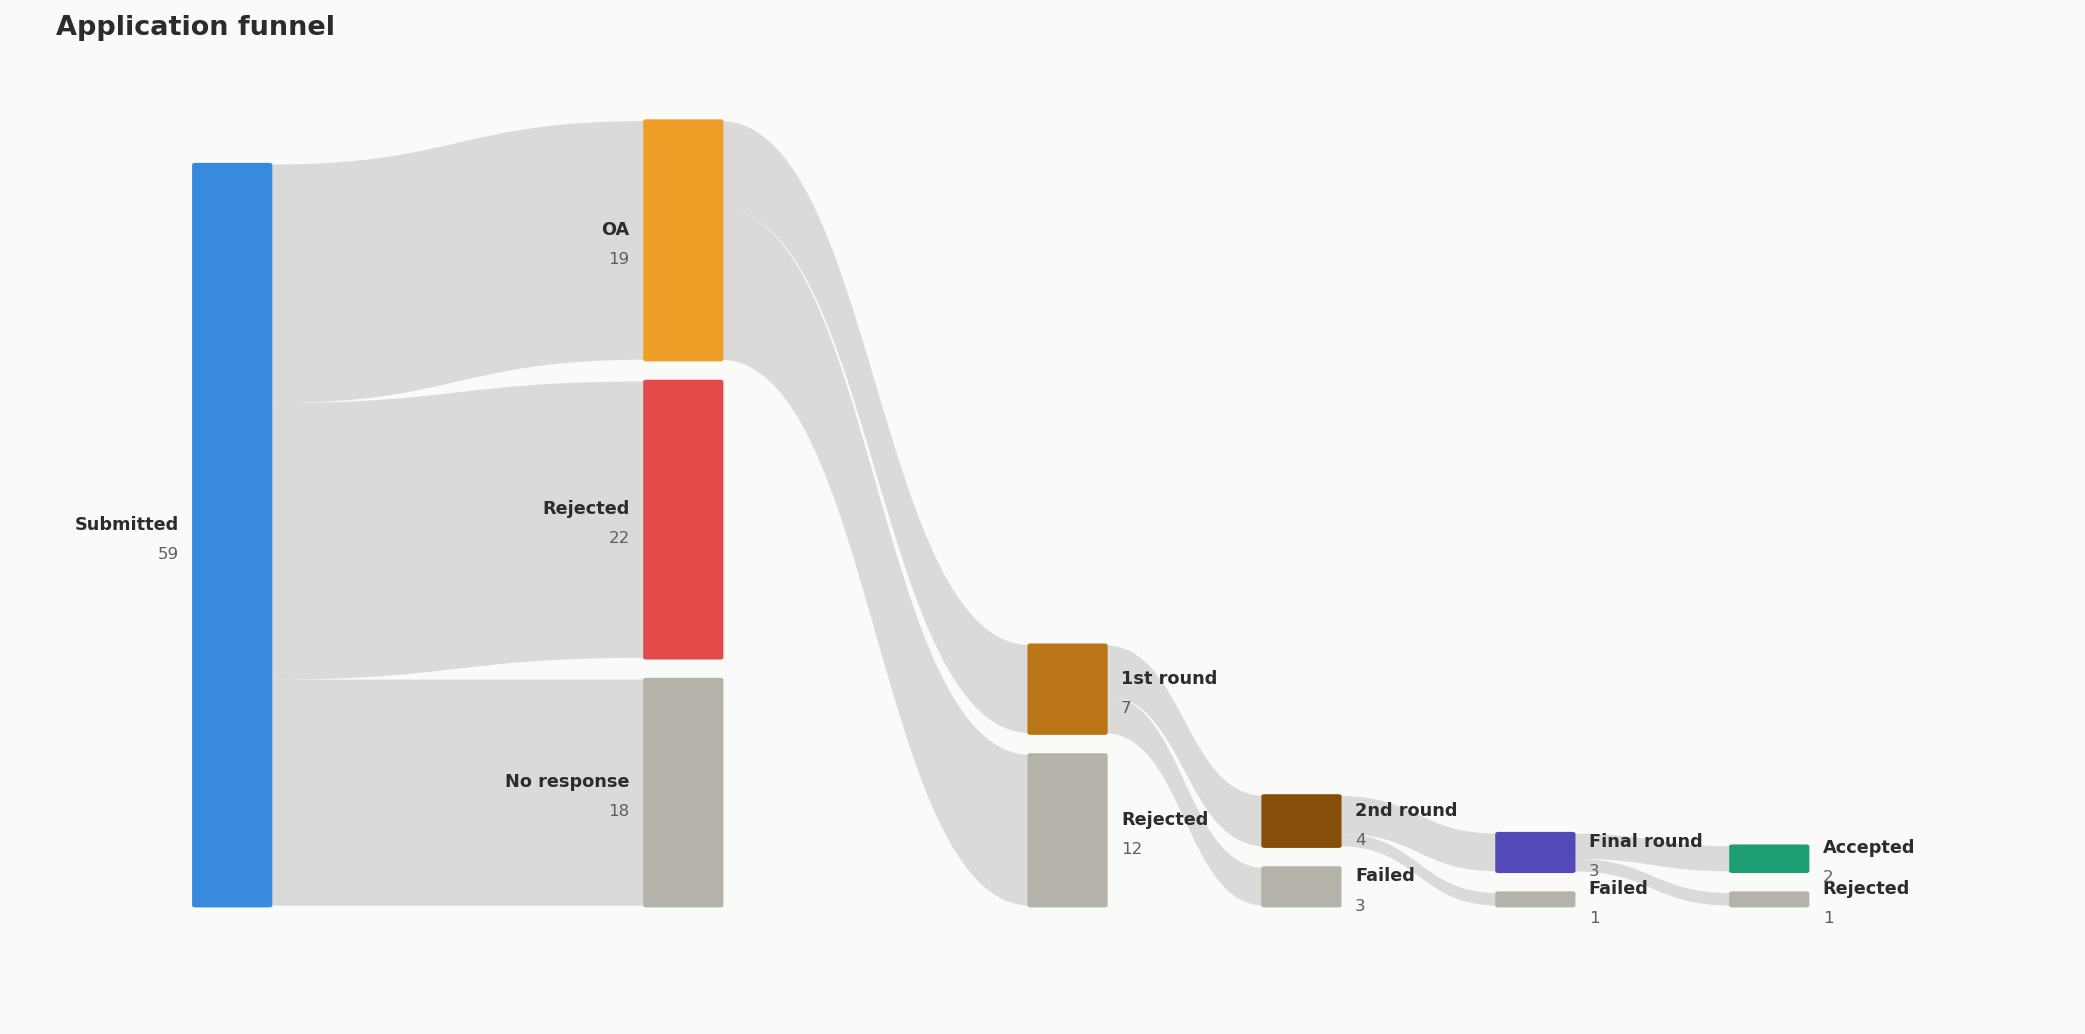
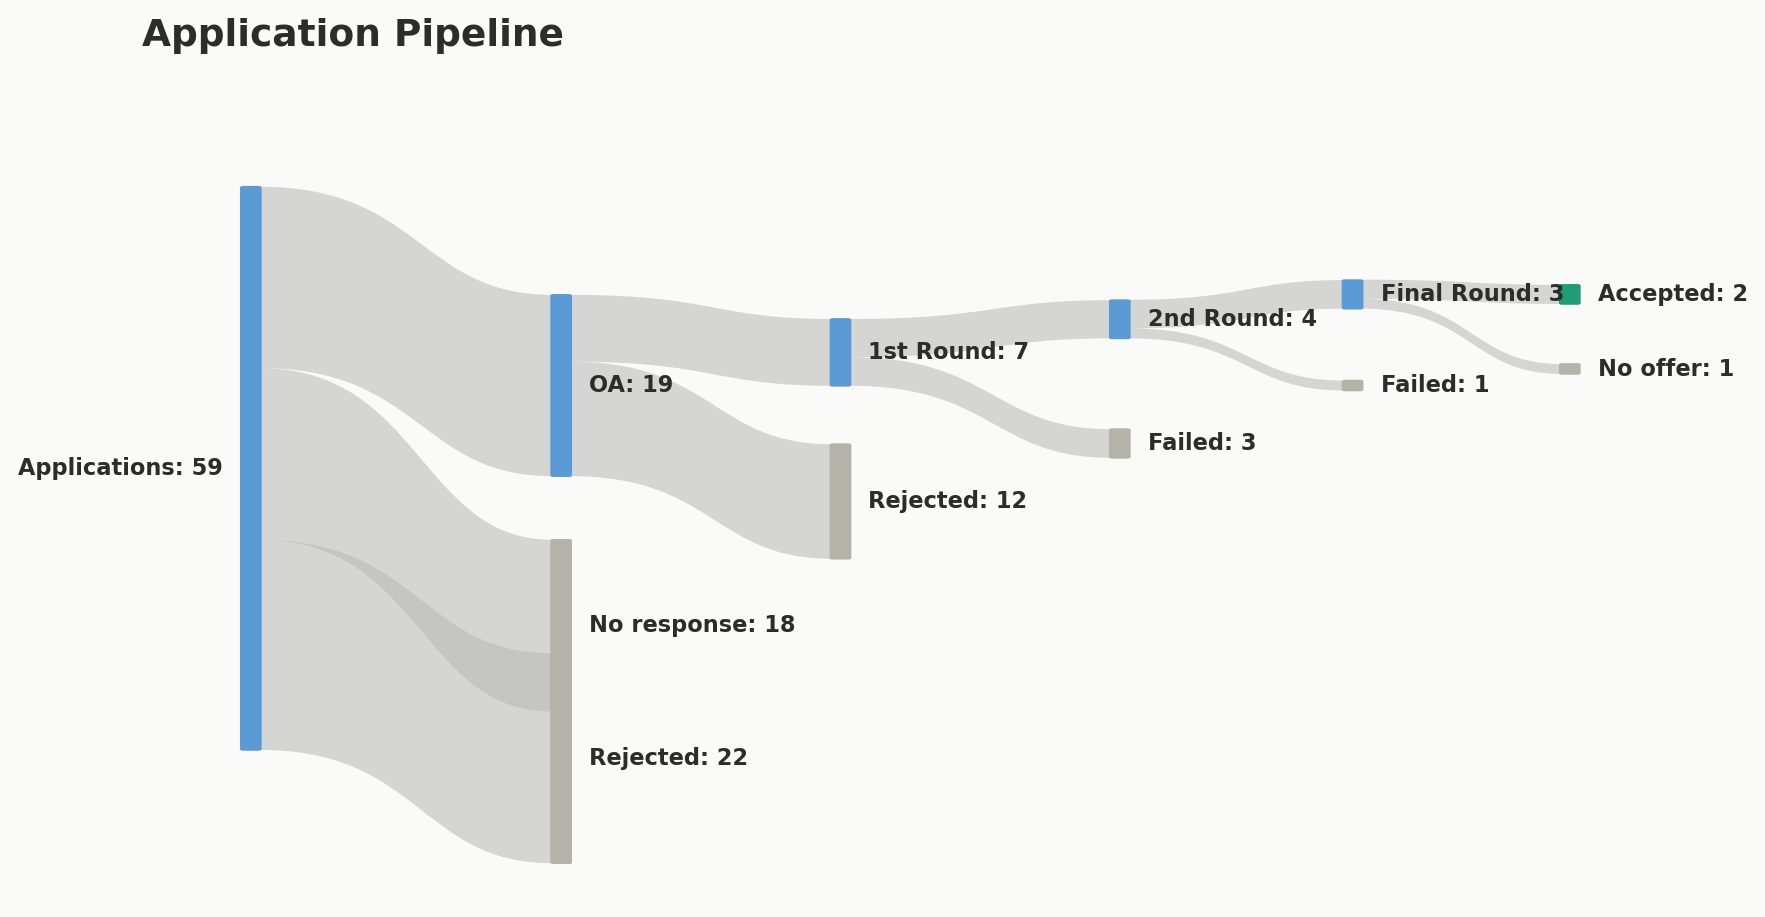
Improvements made to visual design for better data insights

Changed region(s): [[0.0, 0.0916, 0.9972, 0.9466], [0.0312, 0.0, 0.3428, 0.0611]]

diff --git a/analyser.py b/analyser.py
@@ -60,7 +60,7 @@ print(f"  Max listed salary  : ${max_salary:,}")
 print(f"  Unique companies   : {len(companies)}")
 print(f"  Unique industries  : {len(industries)}\n")
  
-print("  Status breakdown:")
+print("  Status Breakdown:")
 for s in PIPELINE:
     if s == 'Submitted':
         continue
@@ -95,133 +95,184 @@ STATUS_COLORS = {
 }
 IND_COLORS = ['#378ADD','#EF9F27','#1D9E75','#E24B4A','#534AB7','#B4B2A9','#854F0B']
  
-# Sankey Diagram
-# Derive funnel counts from status data
-n_no_resp  = app_statuses.get('No Response', 0)
-n_rejected = app_statuses.get('Rejected', 0)
-n_oa_stop  = app_statuses.get('OA', 0)
-n_1st_stop = app_statuses.get('1st Round', 0)
-n_2nd_stop = app_statuses.get('2nd Round', 0)
-n_fin_stop = app_statuses.get('Final Round', 0)
-n_accepted = app_statuses.get('Offer Sent', 0) or app_statuses.get('Accepted', 0)
- 
-n_reached_final = n_fin_stop + n_accepted
-n_reached_2nd   = n_2nd_stop + n_reached_final
-n_reached_1st   = n_1st_stop + n_reached_2nd
-n_reached_oa    = n_oa_stop  + n_reached_1st
- 
-# (id, label, y_pos, count, color)
-NODES = [
-    ('submitted', f'Submitted\n{total}',              0.08, total,           '#378ADD'),
-    ('no_resp',   f'No response\n{n_no_resp}',         0.35, n_no_resp,       '#B4B2A9'),
-    ('rejected',  f'Rejected\n{n_rejected}',           0.35, n_rejected,      '#E24B4A'),
-    ('oa',        f'OA\n{n_reached_oa}',               0.35, n_reached_oa,    '#EF9F27'),
-    ('oa_stop',   f'Rejected\n{n_oa_stop}',             0.58, n_oa_stop,       '#B4B2A9'),
-    ('r1',        f'1st round\n{n_reached_1st}',       0.58, n_reached_1st,   '#BA7517'),
-    ('r1_stop',   f'Failed\n{n_1st_stop}',            0.72, n_1st_stop,      '#B4B2A9'),
-    ('r2',        f'2nd round\n{n_reached_2nd}',       0.72, n_reached_2nd,   '#854F0B'),
-    ('r2_stop',   f'Failed\n{n_2nd_stop}',            0.86, n_2nd_stop,      '#B4B2A9'),
-    ('final',     f'Final round\n{n_reached_final}',   0.86, n_reached_final, '#534AB7'),
-    ('fin_stop',  f'Rejected\n{n_fin_stop}',            1.00, n_fin_stop,      '#B4B2A9'),
-    ('accepted',  f'Accepted\n{n_accepted}',           1.00, n_accepted,      '#1D9E75'),
-]
- 
-LINKS = [
-    ('submitted', 'no_resp',  n_no_resp),
-    ('submitted', 'rejected', n_rejected),
-    ('submitted', 'oa',       n_reached_oa),
-    ('oa',        'oa_stop',  n_oa_stop),
-    ('oa',        'r1',       n_reached_1st),
-    ('r1',        'r1_stop',  n_1st_stop),
-    ('r1',        'r2',       n_reached_2nd),
-    ('r2',        'r2_stop',  n_2nd_stop),
-    ('r2',        'final',    n_reached_final),
-    ('final',     'fin_stop', n_fin_stop),
-    ('final',     'accepted', n_accepted),
-]
- 
-node_map  = {n[0]: n for n in NODES}
-node_geom = {}
-BAR_W  = 0.022
-H_TOTAL = 0.85
-MIN_H  = 0.012
-GAP    = 0.025
- 
-col_nodes = defaultdict(list)
-for node in NODES:
-    col_nodes[node[2]].append(node)
+# Sankey Diagram — cleaner application funnel layout
 
-for stage_x, nodes_in_stage in col_nodes.items():
-    stage_total = sum(node[3] for node in nodes_in_stage)
-    available_height = H_TOTAL - GAP * (len(nodes_in_stage) - 1)
-    cursor_y = 0.08
-    for node in nodes_in_stage:
-        bar_height = max((node[3] / total) * H_TOTAL, MIN_H)
-        node_geom[node[0]] = (stage_x, cursor_y + bar_height / 2, bar_height)
-        cursor_y += bar_height + GAP
- 
-fig_sankey, ax = plt.subplots(figsize=(14, 7))
-fig_sankey.patch.set_facecolor('#FAFAF8')
-ax.set_facecolor('#FAFAF8')
-ax.set_xlim(-0.05, 1.18)
-ax.set_ylim(-0.05, 1.05)
+BLUE = '#5B9BD5'
+GREEN = '#1D9E75'
+GREY = '#B4B2A9'
+TEXT = '#2C2C2A'
+BG = '#FAFAF8'
+LINK = '#B8B8B8'
+
+# Current/final status counts
+n_no_resp = app_statuses.get('No Response', 0)
+n_rejected = app_statuses.get('Rejected', 0)
+n_oa_stop = app_statuses.get('OA', 0)
+n_r1_stop = app_statuses.get('1st Round', 0)
+n_r2_stop = app_statuses.get('2nd Round', 0)
+n_final_stop = app_statuses.get('Final Round', 0)
+n_accepted = app_statuses.get('Offer Sent', 0) + app_statuses.get('Accepted', 0)
+
+# Cumulative reached-stage counts
+n_final = n_final_stop + n_accepted
+n_r2 = n_r2_stop + n_final
+n_r1 = n_r1_stop + n_r2
+n_oa = n_oa_stop + n_r1
+
+BAR_W = 0.006
+SCALE = 0.68
+MIN_H = 0.012
+
+def scaled_height(value):
+    if value <= 0:
+        return 0
+    return max((value / total) * SCALE, MIN_H)
+
+# id: x, y_center, count, label, colour, label_side
+nodes = {
+    'submitted':  (0.07, 0.52, total, 'Applications', BLUE, 'left'),
+    'oa':         (0.27, 0.62, n_oa, 'OA', BLUE, 'right'),
+    'r1':         (0.45, 0.66, n_r1, '1st Round', BLUE, 'right'),
+    'r2':         (0.63, 0.70, n_r2, '2nd Round', BLUE, 'right'),
+    'final':      (0.78, 0.73, n_final, 'Final Round', BLUE, 'right'),
+    'accepted':   (0.92, 0.73, n_accepted, 'Accepted', GREEN, 'right'),
+
+    'no_resp':    (0.27, 0.33, n_no_resp, 'No response', GREY, 'right'),
+    'rejected':   (0.27, 0.17, n_rejected, 'Rejected', GREY, 'right'),
+    'oa_stop':    (0.45, 0.48, n_oa_stop, 'Rejected', GREY, 'right'),
+    'r1_stop':    (0.63, 0.55, n_r1_stop, 'Failed', GREY, 'right'),
+    'r2_stop':    (0.78, 0.62, n_r2_stop, 'Failed', GREY, 'right'),
+    'final_stop': (0.92, 0.64, n_final_stop, 'No offer', GREY, 'right'),
+}
+
+links = [
+    ('submitted', 'rejected', n_rejected),
+    ('submitted', 'no_resp', n_no_resp),
+    ('submitted', 'oa', n_oa),
+
+    ('oa', 'oa_stop', n_oa_stop),
+    ('oa', 'r1', n_r1),
+
+    ('r1', 'r1_stop', n_r1_stop),
+    ('r1', 'r2', n_r2),
+
+    ('r2', 'r2_stop', n_r2_stop),
+    ('r2', 'final', n_final),
+
+    ('final', 'final_stop', n_final_stop),
+    ('final', 'accepted', n_accepted),
+]
+
+geom = {
+    node_id: (x, y, scaled_height(count), count, label, color, label_side)
+    for node_id, (x, y, count, label, color, label_side) in nodes.items()
+    if count > 0
+}
+
+fig_sankey, ax = plt.subplots(figsize=(10, 5.2))
+fig_sankey.patch.set_facecolor(BG)
+ax.set_facecolor(BG)
+ax.set_xlim(0, 1)
+ax.set_ylim(0, 1)
 ax.axis('off')
- 
-out_offset = {n[0]: 0.0 for n in NODES}
-in_offset  = {n[0]: 0.0 for n in NODES}
- 
-for s_id, t_id, val in LINKS:
-    if val == 0:
-        continue
-    sx, sy_c, sh = node_geom[s_id]
-    tx, ty_c, th = node_geom[t_id]
-    s_total = node_map[s_id][3]
-    t_total = node_map[t_id][3]
-    bh_s = (val / s_total) * sh if s_total else 0
-    bh_t = (val / t_total) * th if t_total else 0
-    sy_bot = (sy_c - sh / 2) + out_offset[s_id]
-    ty_bot = (ty_c - th / 2) + in_offset[t_id]
-    out_offset[s_id] += bh_s
-    in_offset[t_id]  += bh_t
- 
-    mx = ((sx + BAR_W) + (tx - BAR_W)) / 2
+
+out_offset = {node_id: 0 for node_id in geom}
+in_offset = {node_id: 0 for node_id in geom}
+
+def draw_link(source_id, target_id, value):
+    if value <= 0 or source_id not in geom or target_id not in geom:
+        return
+
+    sx, sy, sh, *_ = geom[source_id]
+    tx, ty, th, *_ = geom[target_id]
+
+    link_height = scaled_height(value)
+
+    sy_bottom = sy - sh / 2 + out_offset[source_id]
+    ty_bottom = ty - th / 2 + in_offset[target_id]
+
+    out_offset[source_id] += link_height
+    in_offset[target_id] += link_height
+
+    x0 = sx + BAR_W
+    x1 = tx - BAR_W
+    mid_x = x0 + (x1 - x0) * 0.55
+
     verts = [
-        (sx + BAR_W, sy_bot),
-        (mx,         sy_bot),
-        (mx,         ty_bot),
-        (tx - BAR_W, ty_bot),
-        (tx - BAR_W, ty_bot + bh_t),
-        (mx,         ty_bot + bh_t),
-        (mx,         sy_bot + bh_s),
-        (sx + BAR_W, sy_bot + bh_s),
-        (sx + BAR_W, sy_bot),
+        (x0, sy_bottom),
+        (mid_x, sy_bottom),
+        (mid_x, ty_bottom),
+        (x1, ty_bottom),
+
+        (x1, ty_bottom + link_height),
+        (mid_x, ty_bottom + link_height),
+        (mid_x, sy_bottom + link_height),
+        (x0, sy_bottom + link_height),
+
+        (x0, sy_bottom),
     ]
-    codes = [Path.MOVETO,
-             Path.CURVE4, Path.CURVE4, Path.CURVE4,
-             Path.LINETO,
-             Path.CURVE4, Path.CURVE4, Path.CURVE4,
-             Path.CLOSEPOLY]
-    patch = mpatches.PathPatch(Path(verts, codes),
-                               facecolor='#AAAAAA', edgecolor='none', alpha=0.4)
+
+    codes = [
+        Path.MOVETO,
+        Path.CURVE4, Path.CURVE4, Path.CURVE4,
+        Path.LINETO,
+        Path.CURVE4, Path.CURVE4, Path.CURVE4,
+        Path.CLOSEPOLY,
+    ]
+
+    patch = mpatches.PathPatch(
+        Path(verts, codes),
+        facecolor=LINK,
+        edgecolor='none',
+        alpha=0.55,
+        zorder=1,
+    )
     ax.add_patch(patch)
- 
-for node_id, (node_x, node_y_center, node_height) in node_geom.items():
-    node_color = node_map[node_id][4]
+
+for source_id, target_id, value in links:
+    draw_link(source_id, target_id, value)
+
+for node_id, (x, y, node_height, count, label, color, label_side) in geom.items():
     ax.add_patch(mpatches.FancyBboxPatch(
-        (node_x - BAR_W, node_y_center - node_height / 2), BAR_W * 2, node_height,
-        boxstyle='round,pad=0.002',
-        facecolor=node_color, edgecolor='none', zorder=5))
-    label_lines = node_map[node_id][1].split('\n')
-    label_x, label_align = (node_x - BAR_W - 0.01, 'right') if node_x <= 0.35 else (node_x + BAR_W + 0.01, 'left')
-    ax.text(label_x, node_y_center + 0.012, label_lines[0], ha=label_align, va='center',
-            fontsize=8.5, fontweight='bold', color='#2C2C2A', zorder=6)
-    ax.text(label_x, node_y_center - 0.022, label_lines[1], ha=label_align, va='center',
-            fontsize=8, color='#5F5E5A', zorder=6)
- 
-ax.set_title('Application funnel', fontsize=13, fontweight='bold',
-             color='#2C2C2A', pad=12, loc='left', x=0.02)
+        (x - BAR_W, y - node_height / 2),
+        BAR_W * 2,
+        node_height,
+        boxstyle='round,pad=0.001,rounding_size=0.002',
+        facecolor=color,
+        edgecolor='none',
+        zorder=5,
+    ))
+
+    if label_side == 'left':
+        label_x = x - 0.018
+        align = 'right'
+    else:
+        label_x = x + 0.018
+        align = 'left'
+
+    ax.text(
+        label_x,
+        y,
+        f'{label}: {count}',
+        ha=align,
+        va='center',
+        fontsize=9,
+        fontweight='bold',
+        color=TEXT,
+        zorder=6,
+    )
+
+ax.set_title(
+    'Application Pipeline',
+    fontsize=15,
+    fontweight='bold',
+    color=TEXT,
+    loc='left',
+    pad=10,
+)
+
 plt.tight_layout()
-plt.savefig('sankey.png', dpi=150, bbox_inches='tight', facecolor='#FAFAF8')
+plt.savefig('sankey.png', dpi=180, bbox_inches='tight', facecolor=BG)
 plt.close()
 print("\n  Saved → sankey.png")
  
@@ -234,7 +285,7 @@ counts = [app_statuses[s] for s in statuses_to_plot]
 colors = [STATUS_COLORS.get(s, '#888780') for s in statuses_to_plot]
 bars = ax.barh(statuses_to_plot, counts, color=colors, height=0.6)
 ax.set_xlabel('Applications', fontsize=10, color='#5F5E5A')
-ax.set_title('Status breakdown', fontsize=12, fontweight='bold', color='#2C2C2A', pad=10)
+ax.set_title('Status Breakdown', fontsize=12, fontweight='bold', color='#2C2C2A', pad=10)
 ax.tick_params(colors='#5F5E5A')
 ax.spines[['top', 'right', 'left']].set_visible(False)
 ax.spines['bottom'].set_color('#D3D1C7')
@@ -257,12 +308,12 @@ ind_counts = [industries[i] for i in ind_labels]
 wedges, _, autotexts = ax.pie(
     ind_counts, labels=None, autopct='%1.0f%%',
     colors=IND_COLORS[:len(ind_labels)],
-    pctdistance=0.75, startangle=90,
+    pctdistance=1.1, startangle=90,
     wedgeprops=dict(width=0.5, edgecolor='#FAFAF8', linewidth=2))
 for at in autotexts:
     at.set_fontsize(9)
     at.set_color('#2C2C2A')
-ax.set_title('Applications by industry', fontsize=12, fontweight='bold', color='#2C2C2A', pad=10)
+ax.set_title('Applications by Industry', fontsize=12, fontweight='bold', color='#2C2C2A', pad=10)
 ax.legend(wedges, ind_labels, loc='lower center', bbox_to_anchor=(0.5, -0.12),
           ncol=2, fontsize=9, frameon=False)
 plt.tight_layout()